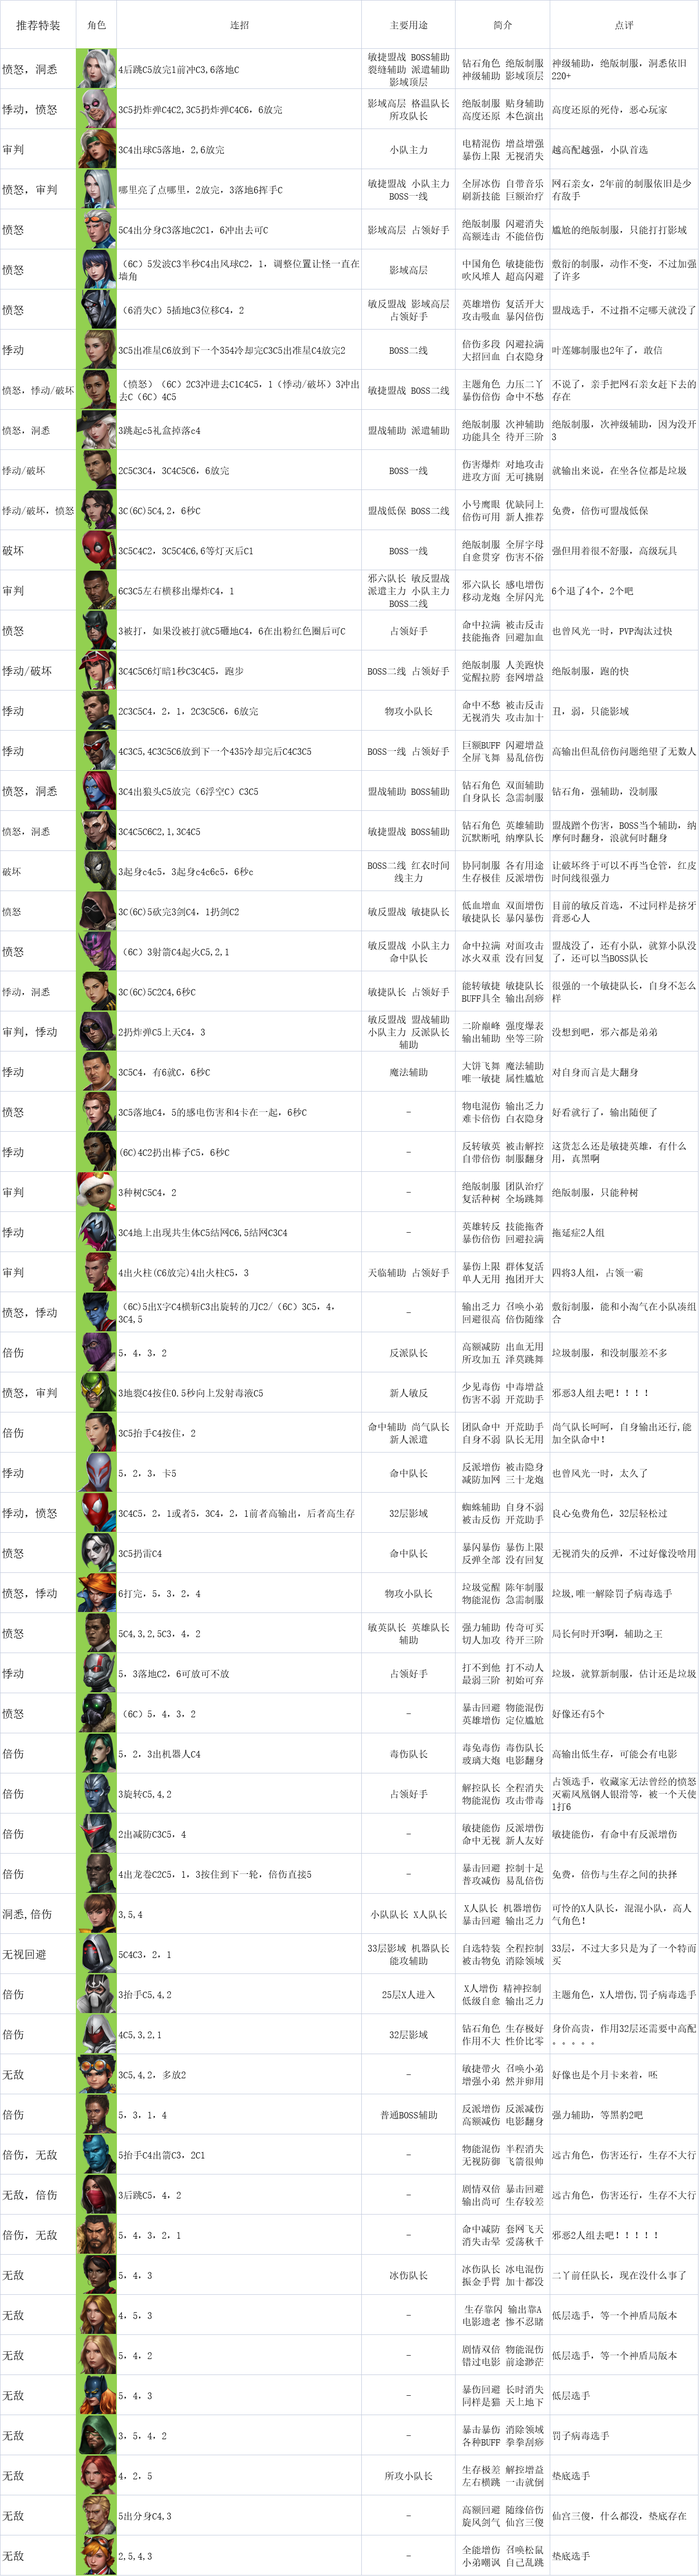
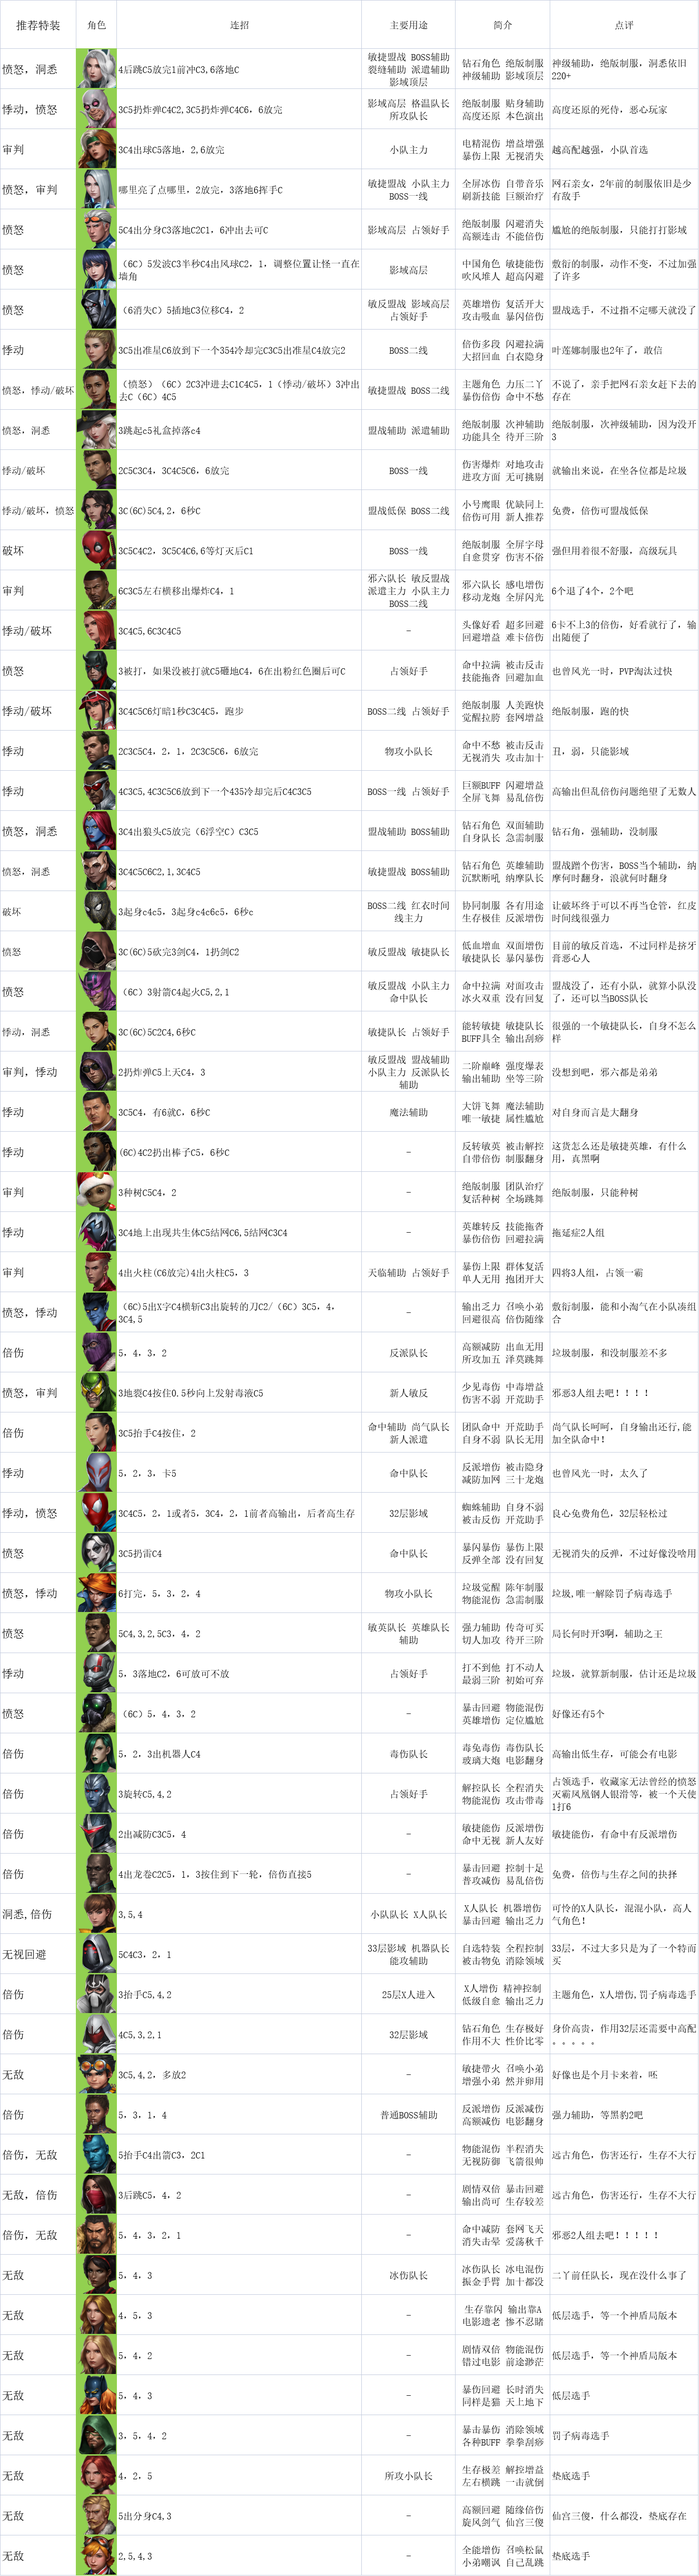
update 2022-06-15

diff --git a/_pages/2022-03-04-updata.md b/_pages/2022-03-04-updata.md
@@ -6,9 +6,28 @@ category: Jekyll
 layout: home
 ---
 
+#### 2022-06-15
+
+1.更新 **世界BOSS** 8.1版本
+
+- 新增铁人（悸动/破坏）。**70级** : 伤害高，跑的快，但是技能容易误触，有时候BOSS跑远了，4技能C不了，打劳模生存不好，打奥创会打空接不上技能，总体强度不尽人意。**80级** : 第一个80级角色，老手建议升，新手不建议升，没了等级压制，伤害巨量提升碾压目前所有角色，命中没问题，不再需要带命中观众，尤其是打奥创，爸爸打儿子，躲猫猫不强。**4阶 ** : 进一步提升伤害，并且躲猫猫很强，具体等做出来再测，制作成本较高，暂时不建议做
+- 调整鹰眼位置，鹰眼同电索一般有技能打空问题，只是超高伤害缓解这个问题，中低配鹰眼可能会打的不是很舒服
+
+2.更新 **连招攻击** 8.1版本
+
+3.更新 **联盟战斗** 8.1版本
+
+© 2022 NextstepOne
+
+
+
+------
+
+
+
 #### 2022-06-12
 
-1.更新 **辅助总表**  - 8.1版本总表
+1.更新 **辅助总表**   8.1版本总表
 
 © 2022 NextstepOne
 
@@ -20,7 +39,7 @@ layout: home
 
 1.增加 **神盾局仓库**  - 按获取地点分类
 
-2.增加 **主题收藏**  - 所有主题的收藏品获取地点
+2.增加 **主题收藏**  - 所有主题收藏品的获取地点
 
 © 2022 NextstepOne
 
@@ -78,7 +97,7 @@ layout: home
 
 #### 2022-05-17
 
-1.更新 **8.05版本** 世界BOSS
+1.更新 **世界BOSS** 8.05版本
 
 - 新增章鱼（悸动/破坏）纳尔，输出一般，生存一般，跑的慢，制服10秒一套倍伤，0.9垫底
 - 新增女巫（审判），看走眼了，HIT超多输出尚可，哪里亮了按哪里，类似于二丫，生存略弱于二丫，需补命中，打奥创很舒服，遗憾的是，3个BOSS都几乎没有上场的条件
@@ -95,9 +114,9 @@ layout: home
 
 #### 2022-05-13
 
-1.更新 **8.05版本** 连招表
+1.更新 **连招表** 8.05版本
 
-1.更新 **8.05版本** 影域强度图
+1.更新 **影域强度图** 8.05版本
 
 © 2022 NextstepOne
 
@@ -131,7 +150,7 @@ layout: home
 
 #### 2022-05-06
 
-1.更新 **8.0版本** 萌新必读 - 萌新必看图
+1.更新 **萌新必读 - 萌新必看图** 8.0版本
 
 © 2022 NextstepOne
 
@@ -155,18 +174,18 @@ layout: home
 
 #### 2022-05-04
 
-1.更新 **8.0版本** 连招表
+1.更新 **连招表** 8.0版本
 
-2.更新 **8.0版本** 联盟战斗
+2.更新 **联盟战斗** 8.0版本
 
-3.更新 **8.0版本** 世界BOSS
+3.更新 **世界BOSS** 8.0版本
 
 - 新增质变条件栏，部分角色在在特定辅助情况下，伤害或生存或各种能力有大幅度提升，导致质变。特加入质变条件。
 - 随着技能的熟练，蒂娜的乱倍伤和生存问题稍稍缓解，提升蒂娜纳尔到1.1胱；回声的出现使不少生存过差的角色，有了活下来的希望，提升猎鹰劳模到1.1胱，同理，蒂娜几乎全程和瑟西绑定，生存提升为3分，提升蒂娜劳模到1.1胱。
 - 新增电王（审判），自带队长，其余一般，亮点在于5技能移动输出和无视消失，电伤属于弱势群体没啥好说的。
 - 新增博士（愤怒），开5后伤害暴增，没5或者走出5的范围伤害偏低，大招对地伤害，需命中队长或观众，伤害较高，生存无神器时一般，有神器后生存很强，操作简单，难得的愤怒角色。打奥创压条能力极强。
 
-4.增加 **7.3 - 7.95版本** 世界BOSS更新日志，详见世界boss板块
+4.增加 **世界BOSS** 7.3 - 7.95版本更新日志，详见世界boss板块
 
 5.增加 **派遣任务** 和 **小队任务** 板块
 

diff --git a/_posts/2022-05-01-boss.md b/_posts/2022-05-01-boss.md
@@ -10,13 +10,18 @@ layout: post
 
 ### 传奇boss打手推荐
 
-  **<font color='green'>（新增模拟工具板块，一些非常好用的工具！！比如卡片精工模拟等等）</font>**
-
-[ **8.05 版本** ]    ( by 炫夜Q群 收藏家无法 )    <font color='blue'><u>不在这个表上不代表不能玩，打打中低层也是可以的</u></font>
+[ **8.1 版本** ]    ( by 炫夜Q群 收藏家无法 )    <font color='blue'><u>不在这个表上不代表不能玩，打打中低层也是可以的</u></font>
 
 **胱**，**丫**  玩家口口相传的传奇boss角色强度单位， 1**胱** = 1**月光石**战力 / 1**丫** = 1**大丫？**战力
 
 <img src="https://www.nextstepone.ltd/mff/images/boss1.png" alt="" referrerpolicy="no-referrer">
+
+<br >
+
+#### 8.1更新日志
+
+- 新增铁人（悸动/破坏）。**70级** : 伤害高，跑的快，但是技能容易误触，有时候BOSS跑远了，4技能C不了，打劳模生存不好，打奥创会打空接不上技能，总体强度不尽人意。**80级** : 第一个80级角色，老手建议升，新手不建议升，没了等级压制，伤害巨量提升碾压目前所有角色，命中没问题，不再需要带命中观众，尤其是打奥创，爸爸打儿子，躲猫猫不强。**4阶 ** : 进一步提升伤害，并且躲猫猫很强，具体等做出来再测，制作成本较高，暂时不建议做
+- 调整鹰眼位置，鹰眼同电索一般有技能打空问题，只是超高伤害缓解这个问题，中低配鹰眼可能会打的不是很舒服
 
 <br >
 

diff --git a/_posts/2022-05-01-mengzhan.md b/_posts/2022-05-01-mengzhan.md
@@ -6,9 +6,9 @@ category: Jekyll
 layout: post
 ---
 
-  **<font color='green'>（新增模拟工具板块，一些非常好用的工具！！比如卡片精工模拟等等）</font>**
 
-[ **8.0 版本** ]    ( by 炫夜Q群 收藏家无法 )
+
+[ **8.1 版本** ]    ( by 炫夜Q群 收藏家无法 )
 
 **异常效果**：沉默场减伤，麻痹场加回避，灼伤场加盾
 

diff --git a/_posts/2022-05-01-lianzhao.md b/_posts/2022-05-01-lianzhao.md
@@ -8,9 +8,7 @@ layout: post
 
 
 
-  **<font color='green'>（新增模拟工具板块，一些非常好用的工具！！比如卡片精工模拟等等）</font>**
-
-[ **8.05 版本** ]    ( by 炫夜Q群 收藏家无法 )
+[ **8.1 版本** ]    ( by 炫夜Q群 收藏家无法 )
 
 ### 全能
 
